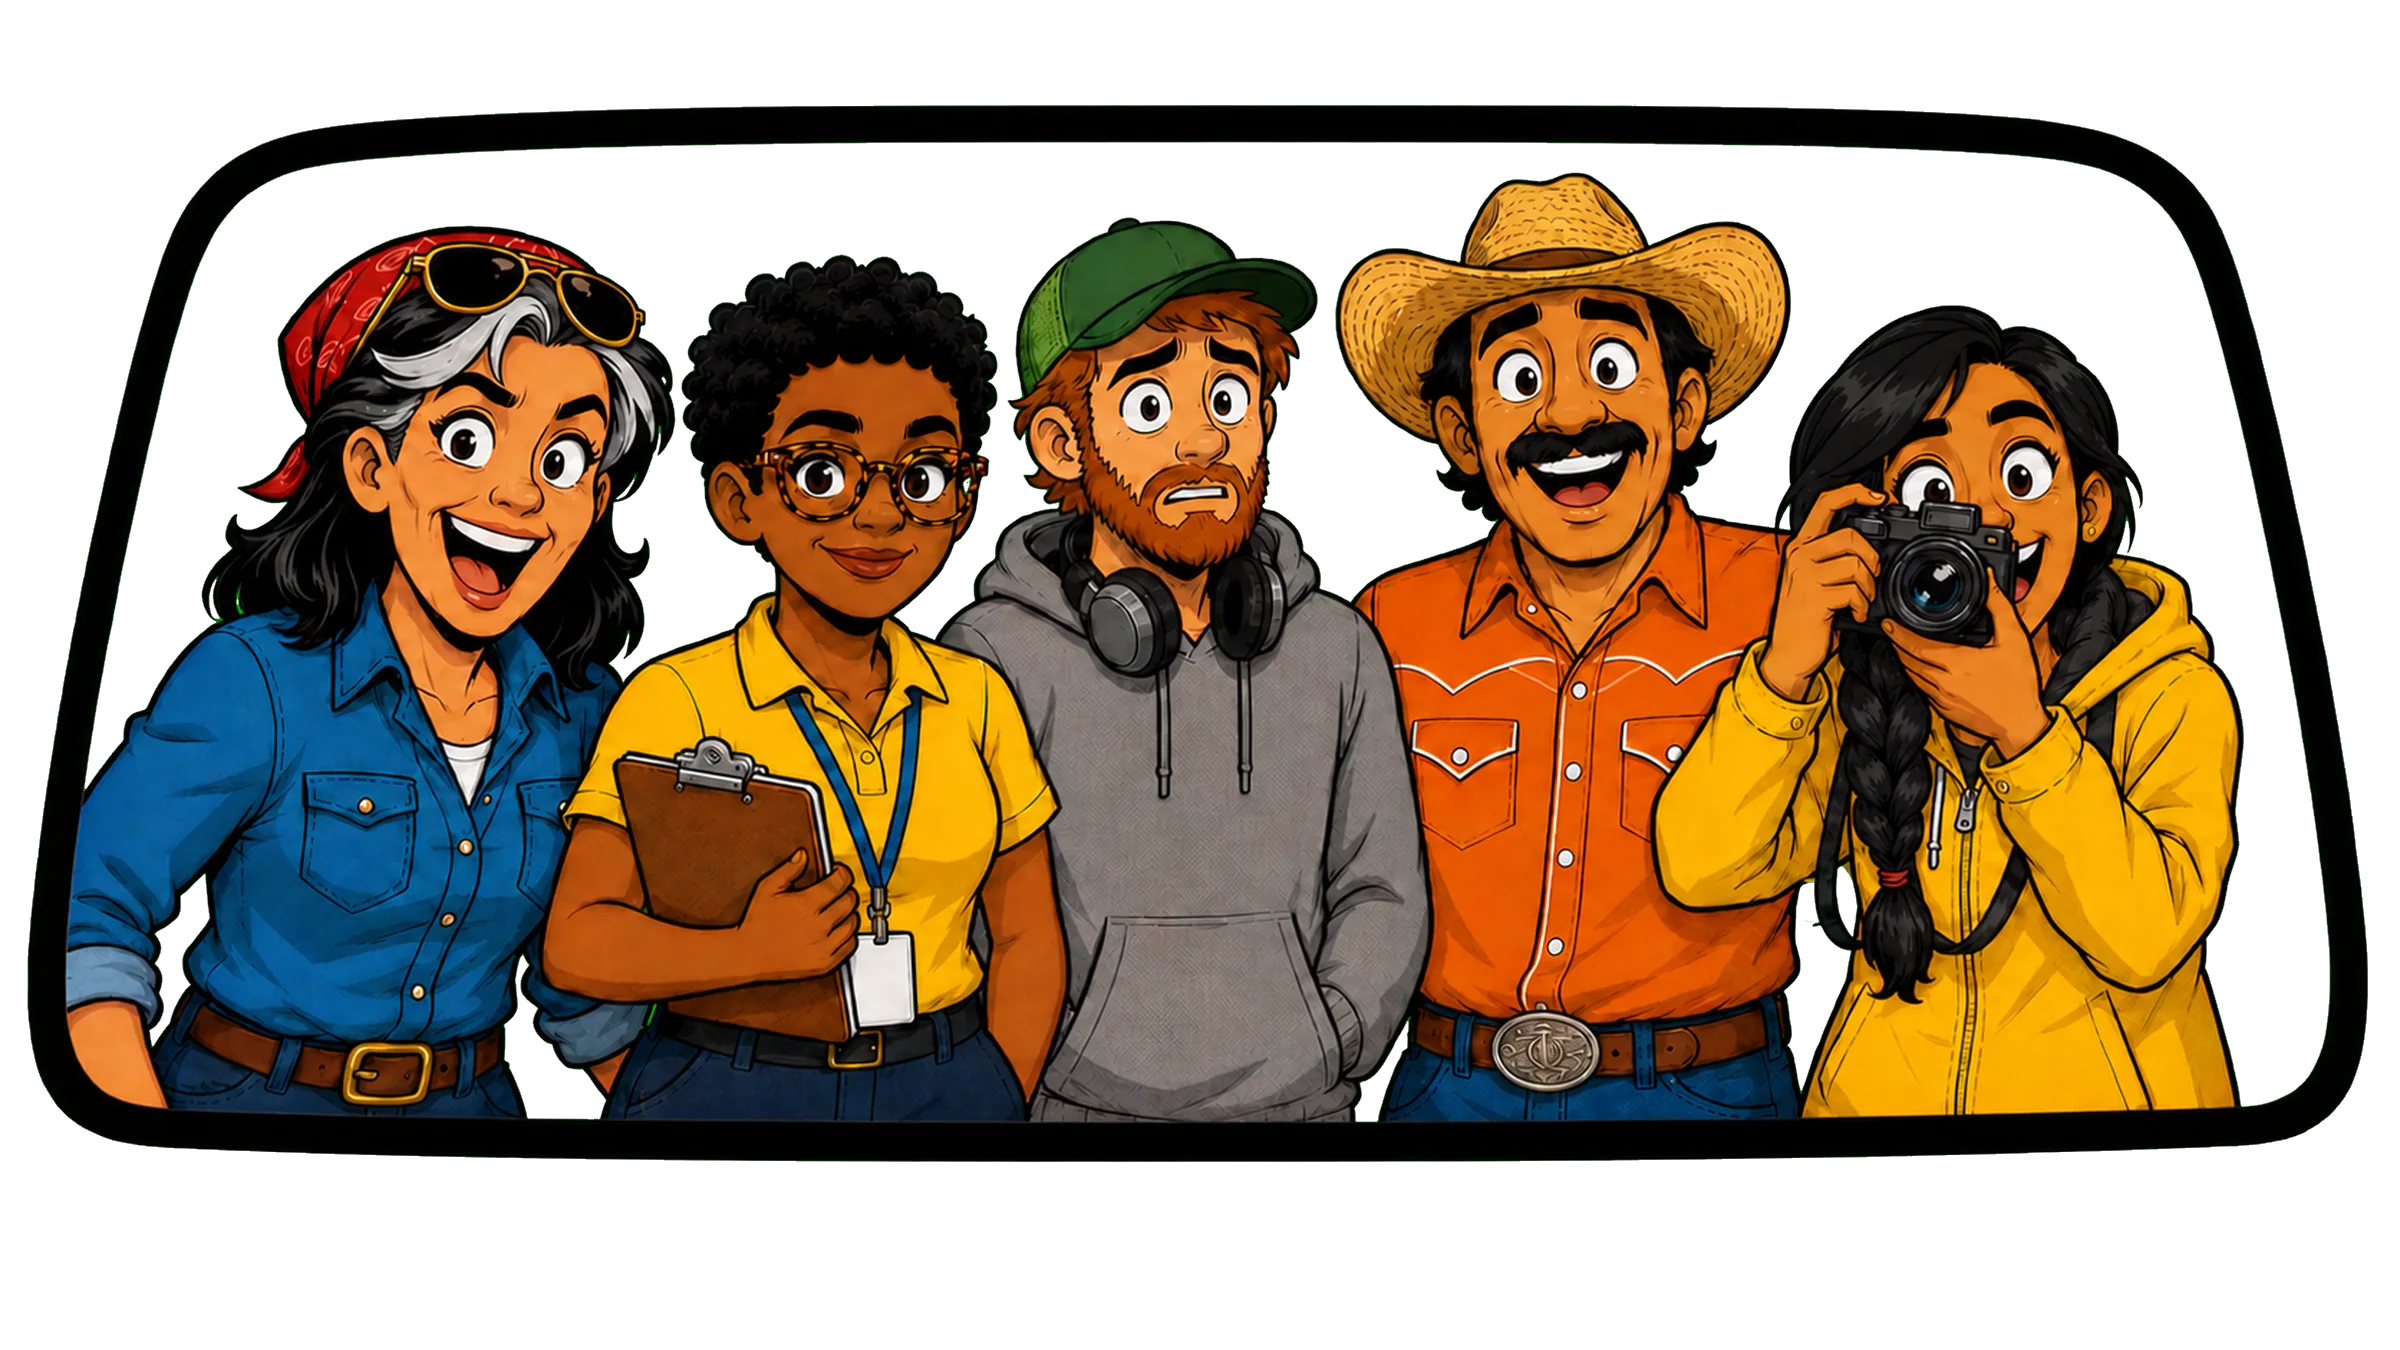
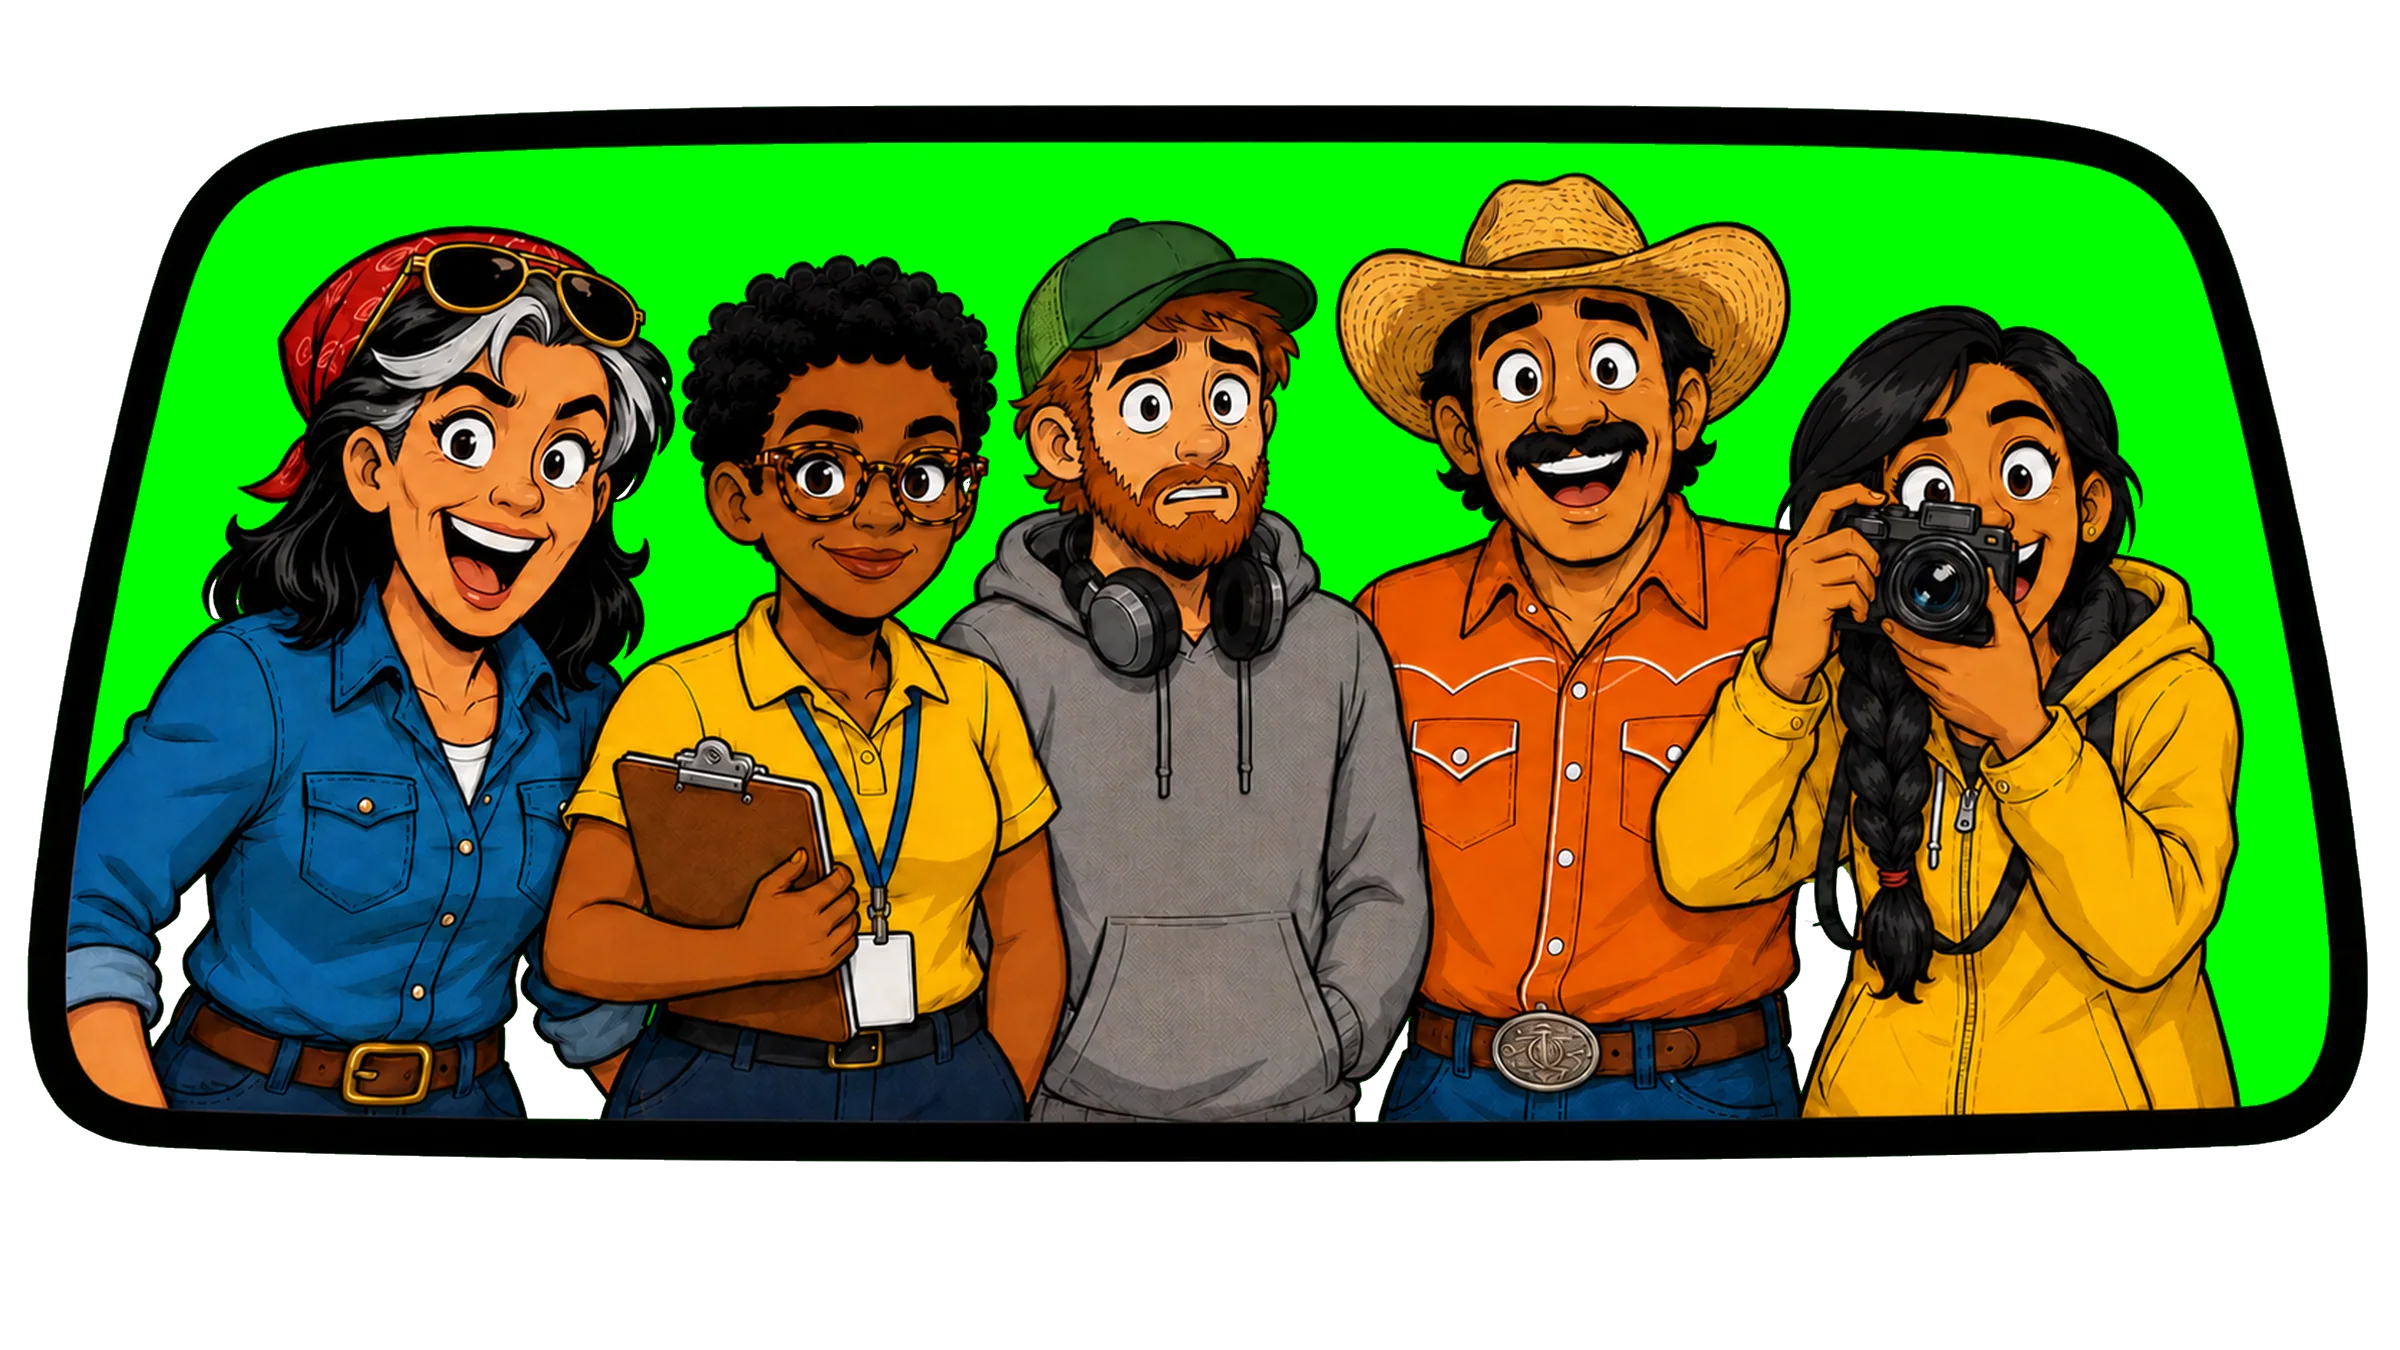
Chroma key: a sealed pocket bigger than 1% of the frame is a painted shape, not a gap
HOORAY!'s R is filled with the screen colour itself; no threshold can
tell it from a roof-rack gap, but its size can. Pockets now flood one
at a time (each examined once) and anything over 1% of the frame is
left as art. Regression and timing tests; every cutout re-keyed (3
art files changed). The asset list tells Codex never to paint a shape
in pure green again.

Changed region(s): [[0.0312, 0.0933, 0.9688, 0.84]]

diff --git a/test/art-key.test.ts b/test/art-key.test.ts
@@ -160,3 +160,58 @@ describe('bright cartoon green inside a drawing', () => {
     expect(at(out, 2, 2)[3]).toBe(0);
   });
 });
+
+/** A letter filled with the screen colour itself: too big to be a gap, so it is art. */
+describe('a large shape painted in screen green', () => {
+  function bigLetter(): Uint8Array {
+    const px = image(GREEN);
+    // An ink-outlined block, 40x28 of a 64x48 frame (~36%), filled with pure screen green.
+    for (let y = 8; y < 40; y++) {
+      for (let x = 10; x < 54; x++) {
+        const edge = y === 8 || y === 39 || x === 10 || x === 53;
+        put(px, x, y, edge ? INK : GREEN);
+      }
+    }
+    return px;
+  }
+
+  test('stays opaque, because a sealed pocket that big is a fill, not a gap', () => {
+    const out = keyGreen(bigLetter(), W, H);
+    expect(at(out, 30, 20)).toEqual([...GREEN, 255]);
+    expect(at(out, 2, 2)[3]).toBe(0);
+  });
+
+  test('a small sealed pocket is still a gap', () => {
+    const out = keyGreen(sprite(), W, H);
+    expect(at(out, 40, 28)[3]).toBe(0);
+  });
+});
+
+describe('performance', () => {
+  test('a large screen-green shape keys in well under a second, not quadratically', () => {
+    const width = 1200;
+    const height = 600;
+    const px = new Uint8Array(width * height * 4);
+    for (let i = 0; i < width * height; i++) {
+      px[i * 4] = 0;
+      px[i * 4 + 1] = 255;
+      px[i * 4 + 2] = 0;
+      px[i * 4 + 3] = 255;
+    }
+    // An ink ring around a big block of pure screen green (60% of the frame).
+    for (let y = 60; y < 540; y++) {
+      for (let x = 100; x < 1100; x++) {
+        const edge = y === 60 || y === 539 || x === 100 || x === 1099;
+        const i = (y * width + x) * 4;
+        px[i] = edge ? 17 : 0;
+        px[i + 1] = edge ? 17 : 255;
+        px[i + 2] = edge ? 17 : 0;
+      }
+    }
+    const started = performance.now();
+    const out = keyGreen(px, width, height);
+    expect(performance.now() - started).toBeLessThan(1000);
+    expect(out[(300 * width + 600) * 4 + 3]).toBe(255); // the big block is art
+    expect(out[(2 * width + 2) * 4 + 3]).toBe(0); // the screen is gone
+  });
+});

diff --git a/docs/ASSET-LIST.md b/docs/ASSET-LIST.md
@@ -583,3 +583,9 @@ subtle halftone-dot texture; clean bright backgrounds. Palette: ink black, sunfl
 #FFC72C, hot orange #F58220, white. No gradients, no painterly texture, no photorealism, no
 speech balloons, no text.
 ```
+
+### 19.5 · Rule for every cutout from here on: never fill a shape with pure screen green
+The keyer removes the neon #00FF00 background and any sealed pocket of that exact green (the gap
+in a roof rack). A letter or a checkmark painted in that same pure green looks like a pocket. If a
+prompt needs a green element on a cutout, ask for **lime green #7AC143** by name — never "bright
+green" or "neon green". HOORAY!'s R was regenerated for exactly this reason.
